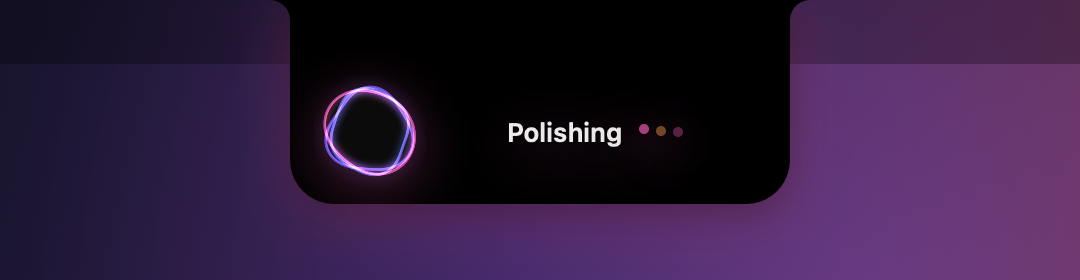
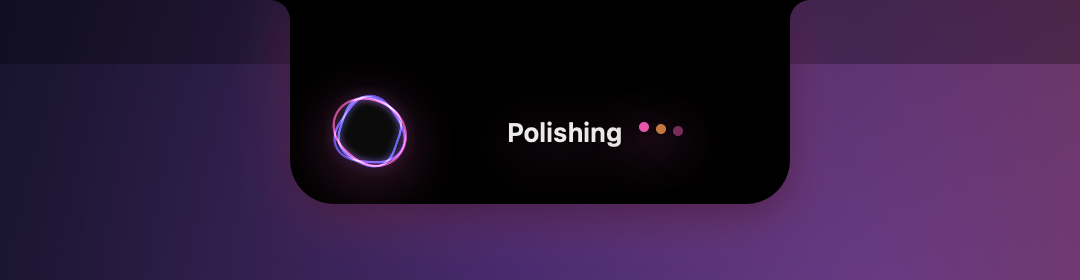
Orb: 20% smaller, vibrates visibly with soft speech and more with loud

Changed region(s): [[0.275, 0.2857, 0.3972, 0.6286], [0.5806, 0.4286, 0.6417, 0.4857]]

diff --git a/Sources/Utter/HUD/LiquidOrb.swift b/Sources/Utter/HUD/LiquidOrb.swift
@@ -111,8 +111,12 @@ final class BlobMotion: ObservableObject {
     /// Follows the voice closely, pulsing with each syllable like the waveform's
     /// bars: drives the spiky, shaky edges while you talk. 0 when quiet.
     private(set) var agitation = 0.0
+    /// `agitation` on a curve that lifts soft speech: a quiet voice (0.1) gives
+    /// about 0.3, so the edges visibly vibrate even when you speak softly, and
+    /// louder speech still vibrates more.
+    var voice: Double { agitation.squareRoot() }
     /// How much to shake the whole orb now: the onset jolt plus the voice.
-    var shake: Double { min(1, energy + (reduceMotion ? 0 : 0.45 * agitation)) }
+    var shake: Double { min(1, energy + (reduceMotion ? 0 : 0.5 * voice)) }
     /// Random -1…1, changed ~30 times a second: shake and flicker during a jolt.
     private(set) var jitter = 0.0
     private(set) var flow = [0.0, 0.0, 0.0]
@@ -137,7 +141,7 @@ final class BlobMotion: ObservableObject {
         // their spikes somewhere new, so the edges stay erratic while you talk.
         let rise = target - previousTarget
         previousTarget = target
-        if rise > 0.12, !reduceMotion {
+        if rise > 0.06, !reduceMotion { // low enough that soft syllables count too
             for i in 0..<3 {
                 kick[i] += (Bool.random() ? -1 : 1) * Double.random(in: 0.6...1.8) * rise * 2
                 spikes[i].lobes = Double(Int.random(in: 3...8))
@@ -171,10 +175,11 @@ final class BlobMotion: ObservableObject {
             flow[i] += dt * pace * (0.8 + 1.5 * level + 6 * energy) * Self.speeds[i]
             rotation[i] += dt * (pace * (0.2 + 0.9 * level) * 0.6 * Self.directions[i] + kick[i])
             spikes[i].phase += dt * spikeSpeed[i]
-            let voiceSpikes = (reduceMotion ? 0.02 : 0.08) * agitation
+            // Soft speech already spikes (the curve); loud speech adds more on top.
+            let voiceSpikes = reduceMotion ? 0.02 * voice : 0.06 * voice + 0.06 * agitation
             spikes[i].amount = (0.1 * energy + voiceSpikes) * Double.random(in: 1...1.5)
         }
-        buzz += dt * pace * (3 + 7 * level + 20 * agitation + 25 * energy)
+        buzz += dt * pace * (3 + 7 * level + 22 * voice + 25 * energy)
         time += dt
     }
 }
@@ -265,7 +270,7 @@ struct AIOrb: View {
         let motion = SnapshotClock.motion ?? self.motion
         let lv = preview?.level ?? motion.level
         let energy = preview == nil ? motion.energy * settle : 0
-        let agitation = preview == nil ? motion.agitation * settle : 0
+        let voice = preview == nil ? motion.voice * settle : 0
         // Shake, size twitch and flicker: big at the start of speech, smaller with each syllable.
         let shake = preview == nil ? motion.shake * settle : 0
         let jitter = motion.jitter
@@ -274,7 +279,7 @@ struct AIOrb: View {
         let center = CGPoint(x: canvas.width / 2 + CGFloat(shake * jitter * 0.025) * size,
                              y: canvas.height / 2 + CGFloat(shake * sin(motion.time * 53) * 0.02) * size)
         let wobble = (mood == .thinking ? 0.11 : 0.15 + 0.08 * lv + 0.05 * energy) * settle
-        let vibration = (0.025 * lv + 0.03 * agitation + 0.03 * energy) * settle
+        let vibration = (0.02 * lv + 0.05 * voice + 0.03 * energy) * settle
         let hues = self.hues
 
         let paths: [Path] = (0..<3).map { i in

diff --git a/Sources/Utter/HUD/BarRows.swift b/Sources/Utter/HUD/BarRows.swift
@@ -148,19 +148,28 @@ struct SessionRow: View {
         .padding(.trailing, 6)
     }
 
+    /// The orb is drawn at 45 pt inside the badge's 56 pt slot, so the island
+    /// keeps the same size in every phase.
+    private static let orbSize: CGFloat = 45
+
     @ViewBuilder private var badge: some View {
         switch state.phase {
         case .listening:
-            AIOrb(mood: .listening, level: state.level, colors: state.hudColors, since: state.phaseSince)
+            orb(.listening, level: state.level)
         case .processing:
-            AIOrb(mood: .thinking, level: 0, colors: state.hudColors, since: state.phaseSince)
+            orb(.thinking)
         case .done:
-            AIOrb(mood: .done, level: 0, colors: state.hudColors, since: state.phaseSince)
+            orb(.done)
         case .failed:
-            AIOrb(mood: .failed, level: 0, colors: state.hudColors, since: state.phaseSince)
+            orb(.failed)
         default:
             iconBadge.frame(width: 32, height: 32).padding(12)
         }
+    }
+
+    private func orb(_ mood: AIOrb.Mood, level: Float = 0) -> some View {
+        AIOrb(mood: mood, level: level, colors: state.hudColors, since: state.phaseSince, size: Self.orbSize)
+            .frame(width: 56, height: 56)
     }
 
     @ViewBuilder private var iconBadge: some View {
